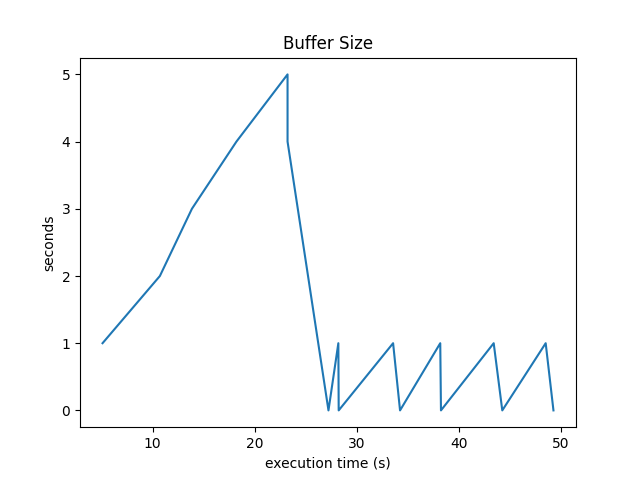
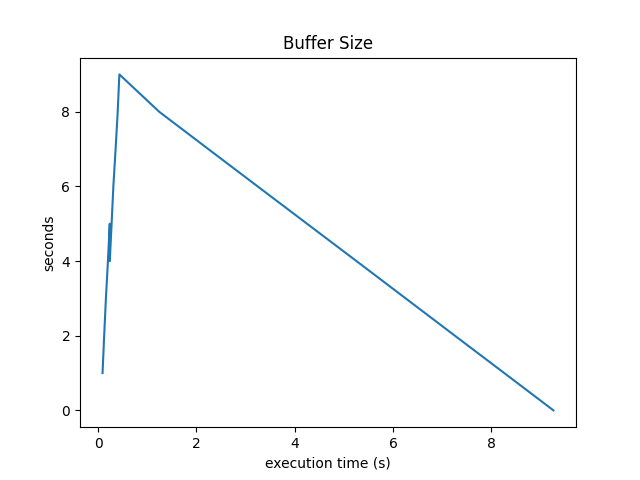
traffic shaping implementation is working.

diff --git a/player/player.py b/player/player.py
@@ -4,10 +4,13 @@ from base.simple_module import SimpleModule
 from base.message import *
 from base.configuration_parser import ConfigurationParser
 from player.parser import *
+from base.timer import Timer
 import threading
 import time
 import numpy as np
 from matplotlib import pyplot as plt
+import os
+import glob
 
 '''
 quality_id - Taxa em que o video foi codificado (46980bps, ..., 4726737bps) 
@@ -56,16 +59,13 @@ class Player(SimpleModule):
         self.parsed_mpd = ''
         self.qi         = []
 
+        self.timer = Timer.get_instance()
+
         #threading playback
         self.playback_thread = threading.Thread(target=self.handle_video_playback)
         self.player_thread_events = threading.Event()
         self.lock = threading.Lock()
         self.kill_playback_thread = False
-
-        # for the statistics purpose
-        self.lock.acquire()
-        self.started_time = time.perf_counter()
-        self.lock.release()
 
         self.request_time = 0
 
@@ -79,8 +79,6 @@ class Player(SimpleModule):
     def get_qi(self, quality_qi):
         return self.qi.index(quality_qi)
 
-    def get_current_time(self):
-        return round(time.perf_counter() - self.started_time, 6)
 
     # data for r2a algorithms
     #def get_playback_history(self):
@@ -112,7 +110,7 @@ class Player(SimpleModule):
     def handle_video_playback(self):
         while True:
             self.lock.acquire()
-            current_time = self.get_current_time()
+            current_time = self.timer.get_current_time()
             buffer_size  = len(self.buffer) - self.buffer_played
             #print(f'{current_time} player acordou')
 
@@ -134,7 +132,7 @@ class Player(SimpleModule):
 
                 buffer_size = len(self.buffer) - self.buffer_played
                 self.playback_buffer_size.add(current_time, buffer_size)
-                print(f'Current Execution Time {current_time} > buffer size: {buffer_size}')
+                print(f'Execution Time {current_time} > buffer size: {buffer_size}')
 
                 if self.pause_started_at is not None:
                     #pause_time = (time.time_ns() - self.pause_started_at) * 1e-9
@@ -154,7 +152,7 @@ class Player(SimpleModule):
             self.lock.release()
 
             if (not threading.main_thread().is_alive() or self.kill_playback_thread) and buffer_size <= 0:
-                print(f'Current Execution Time {current_time}  thread {threading.get_ident()} will be killed.')
+                print(f'Execution Time {current_time}  thread {threading.get_ident()} will be killed.')
                 break
 
             #playback steps
@@ -172,14 +170,14 @@ class Player(SimpleModule):
         self.store_in_buffer(self.get_qi(msg.get_quality_id()), msg.get_segment_size())
 
         #statistical purpose
-        current_time = self.get_current_time()
+        current_time = self.timer.get_current_time()
         buffer_size = self.get_amount_of_video_to_play()
         self.playback_buffer_size.add(current_time, buffer_size)
-        print(f'Current Execution Time {current_time} > buffer size: {buffer_size}')
+        print(f'Execution Time {current_time} > buffer size: {buffer_size}')
 
         if self.buffer_initialization and self.get_amount_of_video_to_play() >= self.buffering_until:
             self.buffer_initialization = False
-            print(f'Current Execution Time {self.get_current_time()} buffering process is concluded')
+            print(f'Execution Time {self.timer.get_current_time()} buffering process is concluded')
             self.playback_thread.start()
             # start the process to play the video
 
@@ -197,7 +195,8 @@ class Player(SimpleModule):
         if self.already_downloading:
             raise ValueError('Something doesn\'t look right, a segment is already being downloaded!')
 
-        self.request_time = time.perf_counter()
+        self.request_time = round(time.perf_counter(), 6)
+        #self.request_time = self.timer.get_current_time()
         segment_request   = SSMessage(MessageKind.SEGMENT_REQUEST)
 
         url_tokens = self.url_mpd.split('/')
@@ -212,6 +211,8 @@ class Player(SimpleModule):
         #set status to downloading a segment
         self.already_downloading = True
 
+        print(f'Execution Time {self.request_time} > request: {segment_request}')
+
         self.send_down(segment_request)
 
 
@@ -223,6 +224,8 @@ class Player(SimpleModule):
     def finalization(self):
 
         print(f'Pauses number: {self.pauses_number}')
+
+        [os.remove(f) for f in glob.glob('./results/*.png')]
 
         self.logging_all_statistics()
 
@@ -238,16 +241,21 @@ class Player(SimpleModule):
         # set status to not downloading a segment
         self.already_downloading = False
 
-        current_time     = self.get_current_time()
-        print(f'Current Execution Time {current_time} > received: {msg}')
+        current_time     = self.timer.get_current_time()
+        print(f'Execution Time {current_time} > received: {msg}')
 
         if msg.found():
-            self.throughputs.add(current_time, msg.get_bit_length() /(time.perf_counter() - self.request_time))
+            measured_throughput = msg.get_bit_length() / (time.perf_counter() - self.request_time)
+            self.throughputs.add(current_time, measured_throughput)
+
+            print(f'Execution Time {self.timer.get_current_time()} > measured throughput: {measured_throughput}')
+
+            #self.throughputs.add(current_time, msg.get_bit_length() /(current_time - self.request_time))
             self.buffering_video_segment(msg)
 
             #still have space in buffer to download next ss
             if self.get_amount_of_video_to_play() >= self.max_buffer_size:
-                print(f'Current Execution Time {current_time} Maximum buffer size is achieved... the principal process will sleep now.')
+                print(f'Execution Time {current_time} Maximum buffer size is achieved... the principal process will sleep now.')
                 self.player_thread_events.wait()
 
             self.request_next_segment()
@@ -261,7 +269,7 @@ class Player(SimpleModule):
                 self.playback_thread.join()
             '''
         else:
-            print(f'Current Execution Time {current_time} All video\'s segments was downloaded')
+            print(f'Execution Time {current_time} All video\'s segments was downloaded')
             self.kill_playback_thread = True
             if self.playback_thread.is_alive():
                 self.playback_thread.join()

diff --git a/connection/connection_handler.py b/connection/connection_handler.py
@@ -5,7 +5,9 @@ from player.parser import *
 import http.client
 import time
 from scipy.stats import expon
+from base.timer import Timer
 import seaborn as sns
+import matplotlib.pyplot as plt
 
 """
 The ConnectionHandler is a Singleton class implementation
@@ -19,16 +21,23 @@ class ConnectionHandler(SimpleModule):
         self.rtt_length = []
         self.initial_time = 0
 
-        #for traffic shaping
+        # for traffic shaping
         config_parser = ConfigurationParser.get_instance()
         self.traffic_shaping_interval = int(config_parser.get_parameter('traffic_shaping_profile_interval'))
-        self.traffic_shaping_seed     = int(config_parser.get_parameter('traffic_shaping_seed'))
-        self.traffic_shaping_values   = []
+        self.traffic_shaping_seed = int(config_parser.get_parameter('traffic_shaping_seed'))
+        self.traffic_shaping_values = []
+
+        # mark the current traffic shapping interval
+        self.current_traffic_shaping_interval = 0
+
         self.traffic_shaping_sequence = []
+        # traffic shaping sequence position
+        self.tss_position = 0
+        # traffic shaping values position
+        self.tsv_position = 0
 
         token = config_parser.get_parameter('traffic_shaping_profile_sequence')
         for i in range(len(token)):
-
             if token[i] == 'L':
                 self.traffic_shaping_sequence.append(0)
             elif token[i] == 'M':
@@ -36,6 +45,18 @@ class ConnectionHandler(SimpleModule):
             elif token[i] == 'H':
                 self.traffic_shaping_sequence.append(2)
 
+        self.timer = Timer.get_instance()
+
+    def get_traffic_shaping_positions(self):
+        current_tsi = self.timer.get_current_time() // self.traffic_shaping_interval
+
+        if current_tsi > self.current_traffic_shaping_interval:
+            self.current_traffic_shaping_interval = current_tsi
+            self.tss_position = (self.tss_position + 1) % len(self.traffic_shaping_sequence)
+
+        self.tsv_position = (self.tsv_position + 1) % len(self.traffic_shaping_values[0])
+
+        return (self.tss_position, self.tsv_position)
 
     def initialize(self):
         # self.send_down(Message(MessageKind.SEGMENT_REQUEST, 'Olá Mundo'))
@@ -46,24 +67,29 @@ class ConnectionHandler(SimpleModule):
         if package_size == 0:
             return
 
-        target_throughput = 10000
+        tsp = self.get_traffic_shaping_positions()
+        target_throughput = self.traffic_shaping_values[tsp[0]][tsp[1]]
+
+        print(f'Execution Time {self.timer.get_current_time()} > target throughput: {target_throughput} - profile: {tsp}')
+
         spent_time = time.perf_counter() - self.initial_time
         throughput = package_size / spent_time
 
-        #we didn't pass our throughput go
+        # we didn't pass our throughput go
         if target_throughput >= throughput:
             return
 
-        waiting_time = (package_size - target_throughput * spent_time) /  target_throughput
+        waiting_time = (package_size - target_throughput * spent_time) / target_throughput
         time.sleep(waiting_time)
 
     def finalization(self):
         pass
-#        print("Measurements at Connection Handler Level: ")
-#        print(self.rtt_length)
-#        print("Measured throughput")
-#        for i in self.rtt_length:
-#            print(f'{round(i[1]/i[0]):>10} bps')
+
+    #        print("Measurements at Connection Handler Level: ")
+    #        print(self.rtt_length)
+    #        print("Measured throughput")
+    #        for i in self.rtt_length:
+    #            print(f'{round(i[1]/i[0]):>10} bps')
 
     def handle_xml_request(self, msg):
         if not 'http://' in msg.get_payload():
@@ -97,13 +123,16 @@ class ConnectionHandler(SimpleModule):
         qi = parsed_mpd.get_qi()
 
         increase_factor = 1
-        low    = round(qi[len(qi)-1] * increase_factor)
-        medium = round(qi[(len(qi)//2)-1] * increase_factor)
-        high   = round(qi[0] * increase_factor)
+        low = round(qi[len(qi) - 1] * increase_factor)
+        medium = round(qi[(len(qi) // 2) - 1] * increase_factor)
+        high = round(qi[0] * increase_factor)
 
-        self.traffic_shaping_values.append([round(x) for x in expon.rvs(scale=1,loc=low,size=10,random_state=self.traffic_shaping_seed)])
-        self.traffic_shaping_values.append([round(x) for x in expon.rvs(scale=1,loc=medium,size=10,random_state=self.traffic_shaping_seed)])
-        self.traffic_shaping_values.append([round(x) for x in expon.rvs(scale=1,loc=high,size=10,random_state=self.traffic_shaping_seed)])
+        self.traffic_shaping_values.append(
+            expon.rvs(scale=1, loc=low, size=1000, random_state=self.traffic_shaping_seed))
+        self.traffic_shaping_values.append(
+            expon.rvs(scale=1, loc=medium, size=1000, random_state=self.traffic_shaping_seed))
+        self.traffic_shaping_values.append(
+            expon.rvs(scale=1, loc=high, size=1000, random_state=self.traffic_shaping_seed))
 
         self.send_up(msg)
 
@@ -133,7 +162,7 @@ class ConnectionHandler(SimpleModule):
             ss_file = ss_file.decode()
         except UnicodeDecodeError:
             # if wasn't possible to decode() is a ss
-            msg.add_bit_length(8*len(ss_file))
+            msg.add_bit_length(8 * len(ss_file))
             self.bandwidth_limitation(msg.get_bit_length())
             decoded = True
 

diff --git a/base/timer.py b/base/timer.py
@@ -1,0 +1,29 @@
+"""
+The Scheduler is a Singleton class implementation
+"""
+
+import time
+
+
+class Timer():
+    __instance = None
+
+    @staticmethod
+    def get_instance():
+        if Timer.__instance is None:
+            Timer()
+        return Timer.__instance
+
+    def __init__(self):
+        if Timer.__instance is not None:
+            raise Exception('This class is a singleton!')
+        else:
+            # for the statistics purpose
+            self.started_time = time.perf_counter()
+            Timer.__instance = self
+
+    def get_current_time(self):
+        return round(time.perf_counter() - self.started_time, 6)
+
+    def get_started_time(self):
+        return self.started_time
